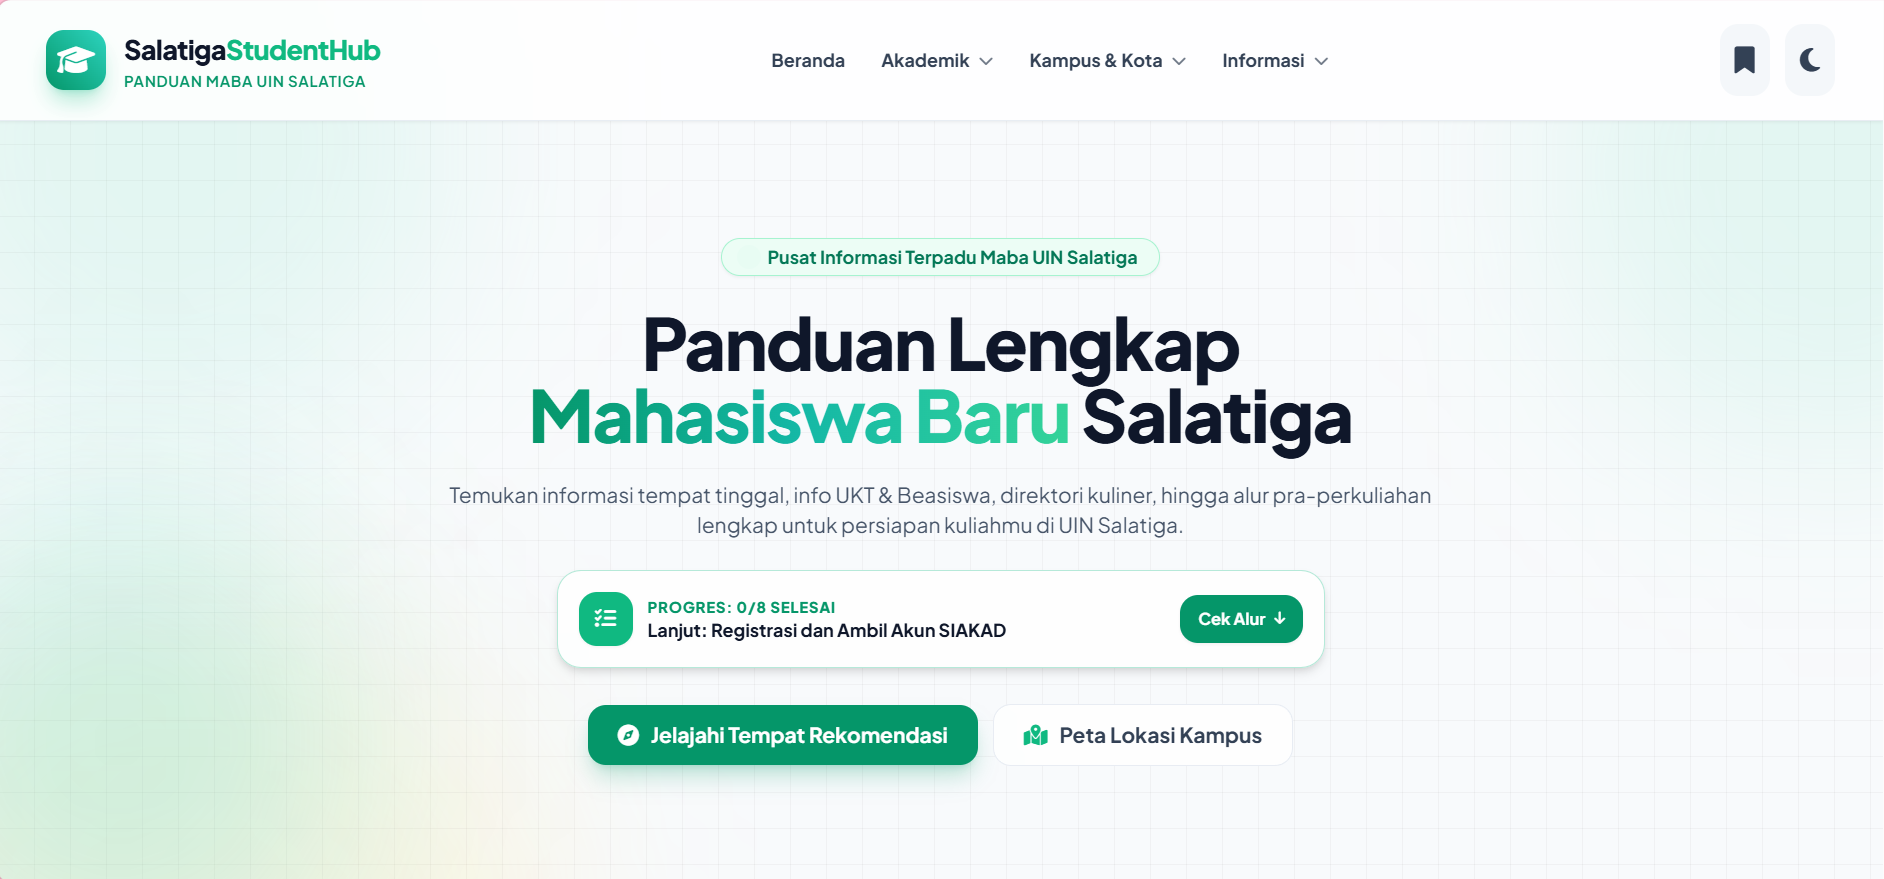
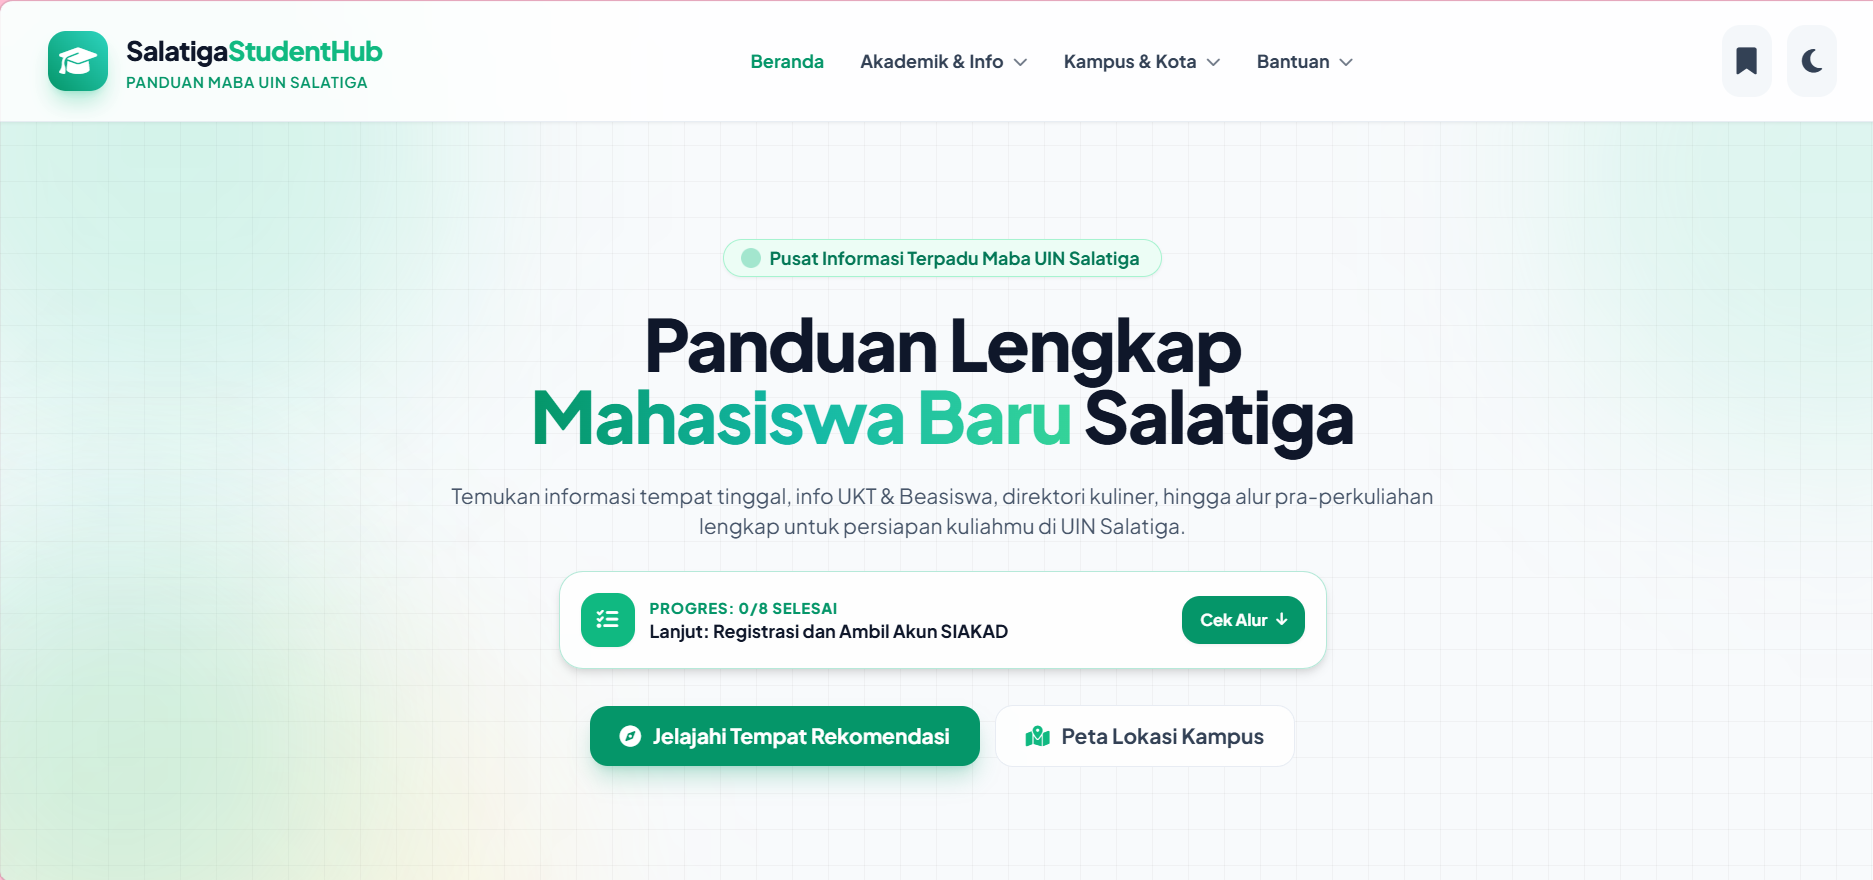
update urutan menu about

diff --git a/components/about.html b/components/about.html
@@ -1,95 +1,123 @@
-<section id="about" class="py-12 sm:py-16 border-t border-slate-200/80 dark:border-slate-800/80 relative overflow-hidden">
+<section id="about" class="py-10 sm:py-16 border-t border-slate-200/80 dark:border-slate-800/80 relative overflow-hidden">
 
-    <!-- Animated Subtle Ambient Glow -->
+    <!-- Ambient Glow Fluid -->
     <div class="absolute inset-0 overflow-hidden pointer-events-none z-0">
-        <div class="absolute -bottom-24 -left-24 w-80 h-80 bg-teal-400/10 dark:bg-teal-500/10 rounded-full blur-3xl animate-[pulse_8s_ease-in-out_infinite]"></div>
+        <div class="absolute -bottom-20 -left-20 w-72 h-72 sm:w-96 sm:h-96 bg-emerald-500/10 dark:bg-emerald-500/15 rounded-full blur-3xl animate-[pulse_6s_ease-in-out_infinite]"></div>
+        <div class="absolute -top-20 -right-20 w-72 h-72 sm:w-96 sm:h-96 bg-teal-500/10 dark:bg-teal-500/10 rounded-full blur-3xl"></div>
     </div>
 
     <div class="max-w-6xl mx-auto px-4 sm:px-6 lg:px-8 relative z-10">
 
-        <!-- HEADER SEKSI RINGKAS -->
-        <div class="text-center max-w-2xl mx-auto mb-10" data-aos="fade-up" data-aos-duration="700">
-            <span class="text-xs font-bold uppercase tracking-wider text-emerald-600 dark:text-emerald-400">Pusat Navigasi Maba</span>
-            <h2 class="text-2xl sm:text-3xl font-extrabold text-slate-900 dark:text-white mt-1">Mengapa Salatiga Student Hub?</h2>
-            <p class="text-slate-500 dark:text-slate-400 text-xs sm:text-sm mt-2">Semua informasi penting mahasiswa baru UIN Salatiga dirangkum ringkas dalam satu tempat—tanpa ribet dan hemat waktu.</p>
+        <!-- HEADER SEKSI -->
+        <div class="text-center max-w-2xl mx-auto mb-8 sm:mb-12" data-aos="fade-up" data-aos-duration="700">
+            <span class="inline-flex items-center gap-1.5 px-3 py-1 rounded-full text-[10px] sm:text-xs font-bold uppercase tracking-wider text-emerald-700 dark:text-emerald-300 bg-emerald-100/80 dark:bg-emerald-950/80 border border-emerald-200/60 dark:border-emerald-800/60 backdrop-blur-md">
+                <i class="fa-solid fa-compass text-emerald-500"></i> Pusat Navigasi Maba
+            </span>
+            <h2 class="text-2xl sm:text-3xl font-extrabold text-slate-900 dark:text-white mt-3 tracking-tight">
+                Mengapa <span class="text-transparent bg-clip-text bg-gradient-to-r from-emerald-600 to-teal-500">Salatiga Student Hub?</span>
+            </h2>
+            <p class="text-slate-600 dark:text-slate-400 text-xs sm:text-sm mt-2.5 leading-relaxed px-2">
+                Semua informasi penting mahasiswa baru UIN Salatiga dirangkum ringkas dalam satu tempat—tanpa ribet dan hemat waktu.
+            </p>
         </div>
 
-        <!-- 3 KARTU FITUR UTAMA (VISUAL & RINGKAS) -->
-        <div class="grid grid-cols-1 md:grid-cols-3 gap-4 sm:gap-6 mb-8" data-aos="fade-up" data-aos-duration="700" data-aos-delay="100">
+        <!-- 3 KARTU FITUR UTAMA (Tautan Mengarah ke Section Masing-masing) -->
+        <div class="flex md:grid md:grid-cols-3 gap-3.5 sm:gap-6 overflow-x-auto snap-x snap-mandatory pb-4 md:pb-0 -mx-4 px-4 md:mx-0 md:px-0 no-scrollbar mb-8 sm:mb-10" data-aos="fade-up" data-aos-duration="700" data-aos-delay="100">
             
-            <!-- Fitur 1 -->
-            <div class="p-5 rounded-2xl bg-white/70 dark:bg-slate-800/60 border border-slate-200/80 dark:border-slate-700/80 backdrop-blur-md hover:border-emerald-500/50 hover:shadow-lg transition-all duration-300">
-                <div class="w-10 h-10 rounded-xl bg-emerald-100 dark:bg-emerald-950/80 text-emerald-600 dark:text-emerald-400 flex items-center justify-center text-lg mb-3 shadow-inner">
-                    <i class="fa-solid fa-list-check"></i>
+            <!-- Fitur 1: Mengarah ke #alur -->
+            <a href="#alur" class="group snap-center shrink-0 w-[82vw] sm:w-[320px] md:w-auto p-5 rounded-2xl bg-white/80 dark:bg-slate-800/70 border border-slate-200/80 dark:border-slate-700/80 backdrop-blur-md hover:border-emerald-500/50 hover:shadow-xl hover:-translate-y-1 transition-all duration-300 flex flex-col justify-between block">
+                <div>
+                    <div class="w-11 h-11 rounded-xl bg-gradient-to-br from-emerald-500 to-teal-600 text-white flex items-center justify-center text-lg mb-4 shadow-md shadow-emerald-500/20 group-hover:scale-110 transition-transform">
+                        <i class="fa-solid fa-list-check"></i>
+                    </div>
+                    <h3 class="font-extrabold text-slate-900 dark:text-white text-sm sm:text-base mb-1.5 group-hover:text-emerald-600 dark:group-hover:text-emerald-400 transition-colors">Panduan Alur Maba</h3>
+                    <p class="text-slate-500 dark:text-slate-400 text-xs leading-relaxed">8 tahapan pra-perkuliahan lengkap dengan pelacak progres mandiri.</p>
                 </div>
-                <h3 class="font-extrabold text-slate-900 dark:text-white text-sm mb-1">Panduan Alur Maba</h3>
-                <p class="text-slate-500 dark:text-slate-400 text-xs leading-relaxed">8 tahapan pra-perkuliahan lengkap dengan pelacak progres mandiri.</p>
-            </div>
+                <div class="mt-4 pt-3 border-t border-slate-100 dark:border-slate-700/50 flex items-center text-[11px] font-bold text-emerald-600 dark:text-emerald-400">
+                    <span>Lihat tahapan</span>
+                    <i class="fa-solid fa-arrow-right ml-1.5 text-[10px] group-hover:translate-x-1 transition-transform"></i>
+                </div>
+            </a>
 
-            <!-- Fitur 2 -->
-            <div class="p-5 rounded-2xl bg-white/70 dark:bg-slate-800/60 border border-slate-200/80 dark:border-slate-700/80 backdrop-blur-md hover:border-emerald-500/50 hover:shadow-lg transition-all duration-300">
-                <div class="w-10 h-10 rounded-xl bg-teal-100 dark:bg-teal-950/80 text-teal-600 dark:text-teal-400 flex items-center justify-center text-lg mb-3 shadow-inner">
-                    <i class="fa-solid fa-map-location-dot"></i>
+            <!-- Fitur 2: Mengarah ke #campus-map -->
+            <a href="#campus-map" class="group snap-center shrink-0 w-[82vw] sm:w-[320px] md:w-auto p-5 rounded-2xl bg-white/80 dark:bg-slate-800/70 border border-slate-200/80 dark:border-slate-700/80 backdrop-blur-md hover:border-teal-500/50 hover:shadow-xl hover:-translate-y-1 transition-all duration-300 flex flex-col justify-between block">
+                <div>
+                    <div class="w-11 h-11 rounded-xl bg-gradient-to-br from-teal-500 to-cyan-600 text-white flex items-center justify-center text-lg mb-4 shadow-md shadow-teal-500/20 group-hover:scale-110 transition-transform">
+                        <i class="fa-solid fa-map-location-dot"></i>
+                    </div>
+                    <h3 class="font-extrabold text-slate-900 dark:text-white text-sm sm:text-base mb-1.5 group-hover:text-teal-600 dark:group-hover:text-teal-400 transition-colors">Navigasi Kampus</h3>
+                    <p class="text-slate-500 dark:text-slate-400 text-xs leading-relaxed">Peta 3 lokasi kampus UIN Salatiga serta rincian 6 fakultas &amp; 28 prodi.</p>
                 </div>
-                <h3 class="font-extrabold text-slate-900 dark:text-white text-sm mb-1">Navigasi Kampus</h3>
-                <p class="text-slate-500 dark:text-slate-400 text-xs leading-relaxed">Peta 3 lokasi kampus UIN Salatiga serta rincian 6 fakultas & 28 prodi.</p>
-            </div>
+                <div class="mt-4 pt-3 border-t border-slate-100 dark:border-slate-700/50 flex items-center text-[11px] font-bold text-teal-600 dark:text-teal-400">
+                    <span>Jelajahi lokasi</span>
+                    <i class="fa-solid fa-arrow-right ml-1.5 text-[10px] group-hover:translate-x-1 transition-transform"></i>
+                </div>
+            </a>
 
-            <!-- Fitur 3 -->
-            <div class="p-5 rounded-2xl bg-white/70 dark:bg-slate-800/60 border border-slate-200/80 dark:border-slate-700/80 backdrop-blur-md hover:border-emerald-500/50 hover:shadow-lg transition-all duration-300">
-                <div class="w-10 h-10 rounded-xl bg-amber-100 dark:bg-amber-950/80 text-amber-600 dark:text-amber-400 flex items-center justify-center text-lg mb-3 shadow-inner">
-                    <i class="fa-solid fa-compass"></i>
+            <!-- Fitur 3: Mengarah ke #directory -->
+            <a href="#directory" class="group snap-center shrink-0 w-[82vw] sm:w-[320px] md:w-auto p-5 rounded-2xl bg-white/80 dark:bg-slate-800/70 border border-slate-200/80 dark:border-slate-700/80 backdrop-blur-md hover:border-amber-500/50 hover:shadow-xl hover:-translate-y-1 transition-all duration-300 flex flex-col justify-between block">
+                <div>
+                    <div class="w-11 h-11 rounded-xl bg-gradient-to-br from-amber-500 to-orange-500 text-white flex items-center justify-center text-lg mb-4 shadow-md shadow-amber-500/20 group-hover:scale-110 transition-transform">
+                        <i class="fa-solid fa-compass"></i>
+                    </div>
+                    <h3 class="font-extrabold text-slate-900 dark:text-white text-sm sm:text-base mb-1.5 group-hover:text-amber-600 dark:group-hover:text-amber-400 transition-colors">Direktori Salatiga</h3>
+                    <p class="text-slate-500 dark:text-slate-400 text-xs leading-relaxed">Rekomendasi kost, tempat nugas (cafe), dan percetakan terdekat dari kampus.</p>
                 </div>
-                <h3 class="font-extrabold text-slate-900 dark:text-white text-sm mb-1">Direktori Salatiga</h3>
-                <p class="text-slate-500 dark:text-slate-400 text-xs leading-relaxed">Rekomendasi kost, tempat nugas (cafe), dan percetakan terdekat dari kampus.</p>
-            </div>
+                <div class="mt-4 pt-3 border-t border-slate-100 dark:border-slate-700/50 flex items-center text-[11px] font-bold text-amber-600 dark:text-amber-400">
+                    <span>Cari rekomendasi</span>
+                    <i class="fa-solid fa-arrow-right ml-1.5 text-[10px] group-hover:translate-x-1 transition-transform"></i>
+                </div>
+            </a>
+
         </div>
 
-        <!-- GRID BOTTOM: STATISTIK RINGKAS + BADGE & DISCLAiMER -->
-        <div class="grid grid-cols-1 lg:grid-cols-5 gap-4 sm:gap-6 items-center">
+        <!-- GRID BOTTOM: STATISTIK + KARTU PEMBUAT -->
+        <div class="grid grid-cols-1 lg:grid-cols-5 gap-4 sm:gap-6 items-stretch">
             
-            <!-- BARIS STATISTIK (HIGHLIGHT ANGKA) -->
-            <div class="lg:col-span-3 grid grid-cols-2 sm:grid-cols-4 gap-3" data-aos="fade-right" data-aos-duration="700" data-aos-delay="150">
-                <div class="p-3.5 rounded-2xl bg-white/70 dark:bg-slate-800/60 border border-slate-200/80 dark:border-slate-700/80 backdrop-blur-md text-center">
-                    <div class="text-xl sm:text-2xl font-black text-emerald-600 dark:text-emerald-400">8</div>
-                    <div class="text-[10px] sm:text-[11px] font-semibold text-slate-500 dark:text-slate-400 mt-0.5">Langkah Maba</div>
-                </div>
-                <div class="p-3.5 rounded-2xl bg-white/70 dark:bg-slate-800/60 border border-slate-200/80 dark:border-slate-700/80 backdrop-blur-md text-center">
-                    <div class="text-xl sm:text-2xl font-black text-emerald-600 dark:text-emerald-400">6</div>
-                    <div class="text-[10px] sm:text-[11px] font-semibold text-slate-500 dark:text-slate-400 mt-0.5">Fakultas</div>
-                </div>
-                <div class="p-3.5 rounded-2xl bg-white/70 dark:bg-slate-800/60 border border-slate-200/80 dark:border-slate-700/80 backdrop-blur-md text-center">
-                    <div class="text-xl sm:text-2xl font-black text-emerald-600 dark:text-emerald-400">28</div>
-                    <div class="text-[10px] sm:text-[11px] font-semibold text-slate-500 dark:text-slate-400 mt-0.5">Prodi S1</div>
-                </div>
-                <div class="p-3.5 rounded-2xl bg-white/70 dark:bg-slate-800/60 border border-slate-200/80 dark:border-slate-700/80 backdrop-blur-md text-center">
-                    <div class="text-xl sm:text-2xl font-black text-emerald-600 dark:text-emerald-400">3</div>
-                    <div class="text-[10px] sm:text-[11px] font-semibold text-slate-500 dark:text-slate-400 mt-0.5">Kampus</div>
-                </div>
+            <!-- BARIS STATISTIK -->
+            <div class="lg:col-span-3 grid grid-cols-2 sm:grid-cols-4 gap-2.5 sm:gap-3" data-aos="fade-right" data-aos-duration="700" data-aos-delay="150">
+                <a href="#alur" class="p-3.5 rounded-2xl bg-white/80 dark:bg-slate-800/70 border border-slate-200/80 dark:border-slate-700/80 backdrop-blur-md text-center hover:border-emerald-500/40 transition-all hover:scale-105 block">
+                    <div class="text-2xl sm:text-3xl font-black text-transparent bg-clip-text bg-gradient-to-r from-emerald-600 to-teal-500">8</div>
+                    <div class="text-[10px] sm:text-[11px] font-bold text-slate-600 dark:text-slate-300 mt-0.5">Langkah Maba</div>
+                </a>
+                <a href="#fakultas" class="p-3.5 rounded-2xl bg-white/80 dark:bg-slate-800/70 border border-slate-200/80 dark:border-slate-700/80 backdrop-blur-md text-center hover:border-emerald-500/40 transition-all hover:scale-105 block">
+                    <div class="text-2xl sm:text-3xl font-black text-transparent bg-clip-text bg-gradient-to-r from-emerald-600 to-teal-500">6</div>
+                    <div class="text-[10px] sm:text-[11px] font-bold text-slate-600 dark:text-slate-300 mt-0.5">Fakultas</div>
+                </a>
+                <a href="#fakultas" class="p-3.5 rounded-2xl bg-white/80 dark:bg-slate-800/70 border border-slate-200/80 dark:border-slate-700/80 backdrop-blur-md text-center hover:border-emerald-500/40 transition-all hover:scale-105 block">
+                    <div class="text-2xl sm:text-3xl font-black text-transparent bg-clip-text bg-gradient-to-r from-emerald-600 to-teal-500">28</div>
+                    <div class="text-[10px] sm:text-[11px] font-bold text-slate-600 dark:text-slate-300 mt-0.5">Prodi S1</div>
+                </a>
+                <a href="#campus-map" class="p-3.5 rounded-2xl bg-white/80 dark:bg-slate-800/70 border border-slate-200/80 dark:border-slate-700/80 backdrop-blur-md text-center hover:border-emerald-500/40 transition-all hover:scale-105 block">
+                    <div class="text-2xl sm:text-3xl font-black text-transparent bg-clip-text bg-gradient-to-r from-emerald-600 to-teal-500">3</div>
+                    <div class="text-[10px] sm:text-[11px] font-bold text-slate-600 dark:text-slate-300 mt-0.5">Kampus</div>
+                </a>
             </div>
 
-            <!-- KARTU PEMBUAT & DOKUMENTASI RESMI -->
-            <div class="lg:col-span-2 p-4 sm:p-5 rounded-2xl bg-gradient-to-r from-emerald-600/10 via-teal-500/10 to-transparent border border-emerald-500/30 dark:border-emerald-500/20 backdrop-blur-md flex items-center justify-between gap-3" data-aos="fade-left" data-aos-duration="700" data-aos-delay="200">
+            <!-- KARTU PEMBUAT -->
+            <div class="lg:col-span-2 p-4 sm:p-4.5 rounded-2xl bg-gradient-to-r from-emerald-500/10 via-teal-500/10 to-transparent border border-emerald-500/30 dark:border-emerald-500/20 backdrop-blur-md flex items-center justify-between gap-3" data-aos="fade-left" data-aos-duration="700" data-aos-delay="200">
                 <div class="flex items-center gap-3 min-w-0">
-                    <div class="w-10 h-10 rounded-xl bg-emerald-500 text-white flex items-center justify-center text-base shrink-0 shadow-md shadow-emerald-500/30">
+                    <div class="w-10 h-10 rounded-xl bg-gradient-to-tr from-emerald-600 to-teal-500 text-white flex items-center justify-center text-sm shrink-0 shadow-md shadow-emerald-500/30">
                         <i class="fa-solid fa-code"></i>
                     </div>
                     <div class="min-w-0">
-                        <h4 class="font-bold text-slate-900 dark:text-white text-xs sm:text-sm truncate">Dibuat oleh Fatima Azzahra</h4>
+                        <span class="block text-[9px] font-bold uppercase tracking-wider text-emerald-600 dark:text-emerald-400">Developer</span>
+                        <h4 class="font-extrabold text-slate-900 dark:text-white text-xs sm:text-sm truncate">Fatima Azzahra</h4>
                         <p class="text-slate-500 dark:text-slate-400 text-[10px] sm:text-[11px] truncate">INTECHFEST 2026 Web Competition</p>
                     </div>
                 </div>
-                <a href="#alur" class="px-3 py-2 bg-emerald-600 hover:bg-emerald-700 text-white font-bold rounded-xl text-xs shrink-0 transition-all active:scale-95 shadow-md">
-                    Coba Sekarang
+                <a href="#alur" class="px-3.5 py-2.5 bg-emerald-600 hover:bg-emerald-700 active:scale-95 text-white font-bold rounded-xl text-xs shrink-0 transition-all shadow-md shadow-emerald-600/20 flex items-center gap-1.5">
+                    <span>Mulai</span>
+                    <i class="fa-solid fa-chevron-right text-[10px]"></i>
                 </a>
             </div>
 
         </div>
 
-        <!-- NOTICE BANNER KECIL (FOOTNOTE) -->
-        <p class="text-center text-[11px] text-slate-400 dark:text-slate-500 mt-8 flex items-center justify-center gap-1.5 leading-relaxed" data-aos="fade-up" data-aos-delay="250">
+        <!-- FOOTNOTE -->
+        <p class="text-center text-[10px] sm:text-[11px] text-slate-400 dark:text-slate-500 mt-6 sm:mt-8 flex items-center justify-center gap-1.5 leading-relaxed px-4" data-aos="fade-up" data-aos-delay="250">
             <i class="fa-solid fa-circle-info text-emerald-500 shrink-0"></i>
-            <span>Bukan situs resmi UIN Salatiga. Data akademik mengacu pada Pengumuman Rektor No. B-1047/Un.29/R/PP.00.1/07/2026.</span>
+            <span>Bukan situs resmi UIN Salatiga. Data mengacu pada Pengumuman Rektor No. B-1047/Un.29/R/PP.00.1/07/2026.</span>
         </p>
 
     </div>
